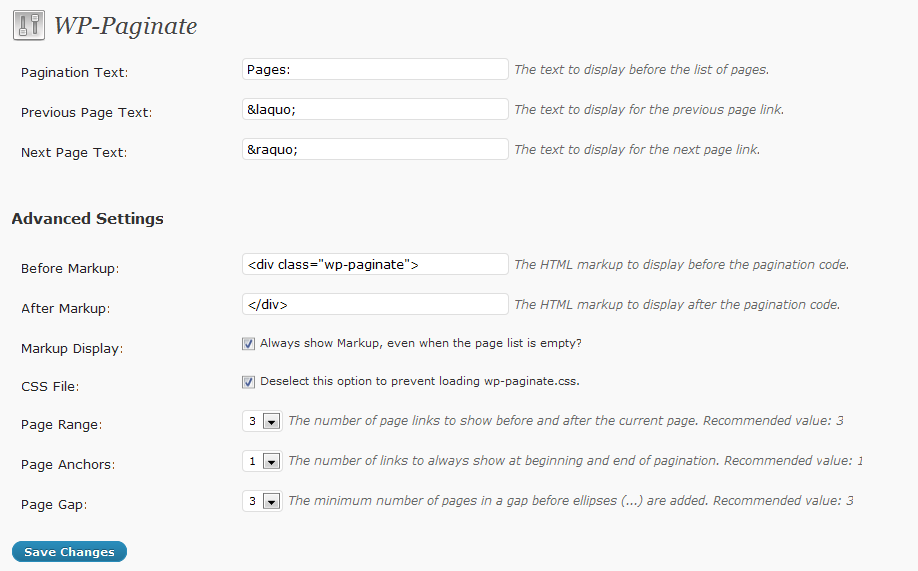
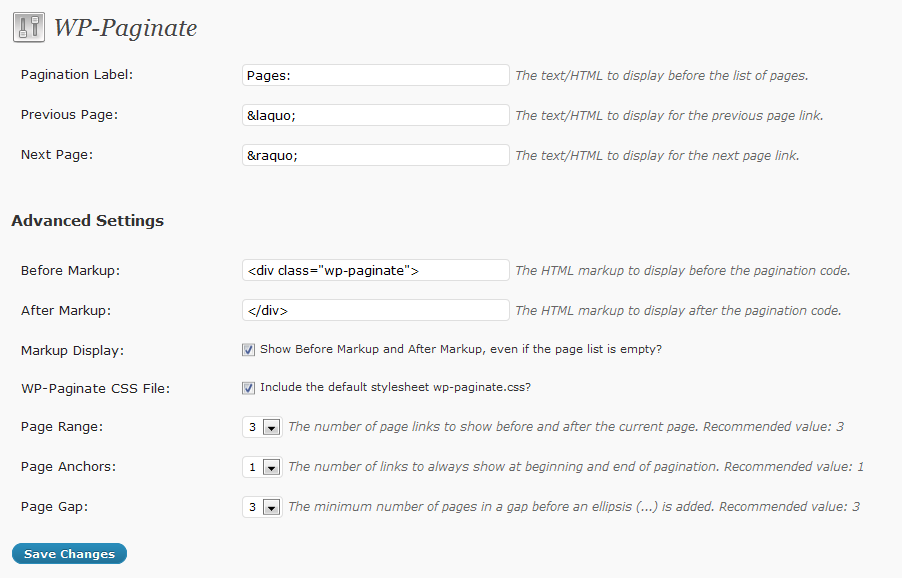
wp-paginate 1.1.2 updates

diff --git a/wp-paginate.php b/wp-paginate.php
@@ -4,12 +4,12 @@ Plugin Name: WP-Paginate
 Plugin URI: http://www.ericmmartin.com/projects/wp-paginate/
 Description: A simple and flexible pagination plugin for WordPress posts and comments.
 Author: Eric Martin
-Version: 1.1.1
+Version: 1.1.2
 Author URI: http://www.ericmmartin.com
 Revision: $Id$
 */
 
-/*  Copyright 2009 Eric Martin (eric@ericmmartin.com)
+/*  Copyright 2010 Eric Martin (eric@ericmmartin.com)
 
 	This program is free software; you can redistribute it and/or modify
 	it under the terms of the GNU General Public License as published by
@@ -43,7 +43,7 @@ if (!class_exists('WPPaginate')) {
 		/**
 		 * @var string The plugin version
 		 */
-		var $version = '1.1.1';
+		var $version = '1.1.2';
 
 		/**
 		 * @var string The options string name for this plugin
@@ -68,7 +68,7 @@ if (!class_exists('WPPaginate')) {
 		 * @var array $options Stores the options for this plugin
 		 */
 		var $options = array();
-		
+
 		var $type = 'posts';
 
 		/**
@@ -94,7 +94,7 @@ if (!class_exists('WPPaginate')) {
 
 			//Actions
 			add_action('admin_menu', array(&$this, 'admin_menu_link'));
-			
+
 			if ($this->options['css'])
 				add_action('wp_print_styles', array(&$this, 'wp_paginate_css'));
 		}
@@ -111,16 +111,28 @@ if (!class_exists('WPPaginate')) {
 
 			if (!isset($page) && !isset($pages)) {
 				global $wp_query;
-				
+
 				if ($this->type === 'posts') {
 					$page = get_query_var('paged');
 					$posts_per_page = intval(get_query_var('posts_per_page'));
 					$pages = intval(ceil($wp_query->found_posts / $posts_per_page));
 				}
 				else {
+					global $post, $wpdb;
+					/*
+					 * Do not include nested comments
+					 * Thanks to jeffreyalew for the patch
+					 */ 
+					$comments = $wpdb->get_var("
+						SELECT COUNT(*)
+						FROM $wpdb->comments
+						WHERE comment_approved = '1'
+						AND comment_parent = '0'
+						AND comment_post_ID = $post->ID
+					");
 					$page = get_query_var('cpage');
-					$posts_per_page = get_option('comments_per_page');
-					$pages = intval(ceil($wp_query->comment_count / $posts_per_page));
+					$comments_per_page = get_option('comments_per_page');
+					$pages = intval(ceil($comments / $comments_per_page));
 				}
 				$page = !empty($page) ? intval($page) : 1;
 			}
@@ -131,23 +143,23 @@ if (!class_exists('WPPaginate')) {
 			$nextlink = ($this->type === 'posts')
 				? get_pagenum_link($page + 1) 
 				: get_comments_pagenum_link($page + 1);
-			
+
 			$output = stripslashes($before);
 			if ($pages > 1) {	
 				$output .= sprintf('<ol class="wp-paginate%s">', ($this->type === 'posts') ? '' : ' wp-paginate-comments');
-				$output .= "<li><span class='title'>$title</span></li>";
+				$output .= sprintf('<li><span class="title">%s</span></li>', stripslashes($title));
 				$ellipsis = "<li><span class='gap'>...</span></li>";
-			
+
 				if ($page > 1 && !empty($previouspage)) {
-					$output .= "<li><a href='$prevlink' class='prev'>$previouspage</a></li>";
+					$output .= sprintf('<li><a href="%s" class="prev">%s</a></li>', $prevlink, stripslashes($previouspage));
 				}
-				
+
 				$min_links = $range * 2 + 1;
 				$block_min = min($page - $range, $pages - $min_links);
 				$block_high = max($page + $range, $min_links);
 				$left_gap = (($block_min - $anchor - $gap) > 0) ? true : false;
 				$right_gap = (($block_high + $anchor + $gap) < $pages) ? true : false;
-			
+
 				if ($left_gap && !$right_gap) {
 					$output .= sprintf('%s%s%s',
 						$this->paginate_loop(1, $anchor),
@@ -174,19 +186,19 @@ if (!class_exists('WPPaginate')) {
 				else {
 					$output .= $this->paginate_loop(1, $pages, $page);
 				}
-			
+
 				if ($page < $pages && !empty($nextpage)) {
-					$output .= "<li><a href='$nextlink' class='next'>$nextpage</a></li>";
+					$output .= sprintf('<li><a href="%s" class="next">%s</a></li>', $nextlink, stripslashes($nextpage));
 				}
 				$output .= "</ol>";
 			}
 			$output .= stripslashes($after);
-			
+
 			if ($pages > 1 || $empty) {
 				echo $output;
 			}
 		}
-		
+
 		/**
 		 * Helper function for pagination which builds the page links.
 		 */
@@ -200,7 +212,7 @@ if (!class_exists('WPPaginate')) {
 			}
 			return $output;
 		}
-		
+
 		function wp_paginate_css() {
 			$css = "";
 			$name = "wp-paginate.css";
@@ -276,9 +288,9 @@ if (!class_exists('WPPaginate')) {
 					$this->options['range'] = intval($_POST['range']);
 					$this->options['anchor'] = intval($_POST['anchor']);
 					$this->options['gap'] = intval($_POST['gap']);
-	
+
 					$this->save_admin_options();
-	
+
 					echo '<div class="updated"><p>' . __('Success! Your changes were successfully saved!', $this->localizationDomain) . '</p></div>';
 				}
 				else {
@@ -294,19 +306,19 @@ if (!class_exists('WPPaginate')) {
 <?php wp_nonce_field('wp-paginate-update-options'); ?>
 	<table class="form-table">
 		<tr valign="top">
-			<th scope="row"><?php _e('Pagination Text:', $this->localizationDomain); ?></th>
-			<td><input name="title" type="text" id="title" size="40" value="<?php echo htmlspecialchars($this->options['title']); ?>"/>
-			<span class="description"><?php _e('The text to display before the list of pages.', $this->localizationDomain); ?></span></td>
+			<th scope="row"><?php _e('Pagination Label:', $this->localizationDomain); ?></th>
+			<td><input name="title" type="text" id="title" size="40" value="<?php echo stripslashes(htmlspecialchars($this->options['title'])); ?>"/>
+			<span class="description"><?php _e('The text/HTML to display before the list of pages.', $this->localizationDomain); ?></span></td>
 		</tr>
 		<tr valign="top">
-			<th scope="row"><?php _e('Previous Page Text:', $this->localizationDomain); ?></th>
-			<td><input name="previouspage" type="text" id="previouspage" size="40" value="<?php echo htmlspecialchars($this->options['previouspage']); ?>"/>
-			<span class="description"><?php _e('The text to display for the previous page link.', $this->localizationDomain); ?></span></td>
+			<th scope="row"><?php _e('Previous Page:', $this->localizationDomain); ?></th>
+			<td><input name="previouspage" type="text" id="previouspage" size="40" value="<?php echo stripslashes(htmlspecialchars($this->options['previouspage'])); ?>"/>
+			<span class="description"><?php _e('The text/HTML to display for the previous page link.', $this->localizationDomain); ?></span></td>
 		</tr>
 		<tr valign="top">
-			<th scope="row"><?php _e('Next Page Text:', $this->localizationDomain); ?></th>
-			<td><input name="nextpage" type="text" id="nextpage" size="40" value="<?php echo htmlspecialchars($this->options['nextpage']); ?>"/>
-			<span class="description"><?php _e('The text to display for the next page link.', $this->localizationDomain); ?></span></td>
+			<th scope="row"><?php _e('Next Page:', $this->localizationDomain); ?></th>
+			<td><input name="nextpage" type="text" id="nextpage" size="40" value="<?php echo stripslashes(htmlspecialchars($this->options['nextpage'])); ?>"/>
+			<span class="description"><?php _e('The text/HTML to display for the next page link.', $this->localizationDomain); ?></span></td>
 		</tr>
 	</table>
 	<p>&nbsp;</p>
@@ -325,12 +337,12 @@ if (!class_exists('WPPaginate')) {
 		<tr valign="top">
 			<th scope="row"><?php _e('Markup Display:', $this->localizationDomain); ?></th>
 			<td><label for="empty">
-				<input type="checkbox" id="empty" name="empty" <?php echo ($this->options['empty'] === true) ? "checked='checked'" : ""; ?>/> <?php _e('Always show Markup, even when the page list is empty?', $this->localizationDomain); ?></label></td>
+				<input type="checkbox" id="empty" name="empty" <?php echo ($this->options['empty'] === true) ? "checked='checked'" : ""; ?>/> <?php _e('Show Before Markup and After Markup, even if the page list is empty?', $this->localizationDomain); ?></label></td>
 		</tr>
 		<tr valign="top">
-			<th scope="row"><?php _e('CSS File:', $this->localizationDomain); ?></th>
+			<th scope="row"><?php _e('WP-Paginate CSS File:', $this->localizationDomain); ?></th>
 			<td><label for="css">
-				<input type="checkbox" id="css" name="css" <?php echo ($this->options['css'] === true) ? "checked='checked'" : ""; ?>/> <?php _e('Deselect this option to prevent loading wp-paginate.css.', $this->localizationDomain); ?></label></td>
+				<input type="checkbox" id="css" name="css" <?php echo ($this->options['css'] === true) ? "checked='checked'" : ""; ?>/> <?php _e('Include the default stylesheet wp-paginate.css?', $this->localizationDomain); ?></label></td>
 		</tr>
 		<tr valign="top">
 			<th scope="row"><?php _e('Page Range:', $this->localizationDomain); ?></th>
@@ -360,7 +372,7 @@ if (!class_exists('WPPaginate')) {
 					<option value="<?php echo $i; ?>" <?php echo ($i == $this->options['gap']) ? "selected='selected'" : ""; ?>><?php echo $i; ?></option>
 				<?php endfor; ?>
 				</select>
-				<span class="description"><?php _e('The minimum number of pages in a gap before ellipses (...) are added. Recommended value: 3', $this->localizationDomain); ?></span></td>
+				<span class="description"><?php _e('The minimum number of pages in a gap before an ellipsis (...) is added. Recommended value: 3', $this->localizationDomain); ?></span></td>
 		</tr>
 	</table>
 	<p class="submit">
@@ -383,6 +395,7 @@ if (!class_exists('WPPaginate')) {
 	<li>&raquo; <a href="http://twitter.com/ericmmartin">@ericmmartin</a> on Twitter</li>
 	<li>&raquo; <a href="http://www.ericmmartin.com">EricMMartin.com</a></li>
 	<li>&raquo; <a href="http://www.ericmmartin.com/projects/smcf/">SimpleModal Contact Form (SMCF) - WordPress Plugin</a></li>
+	<li>&raquo; <a href="http://www.ericmmartin.com/projects/simplemodal-login/">SimpleModal Login - WordPress Plugin</a></li>
 </ul>
 </div>
 
